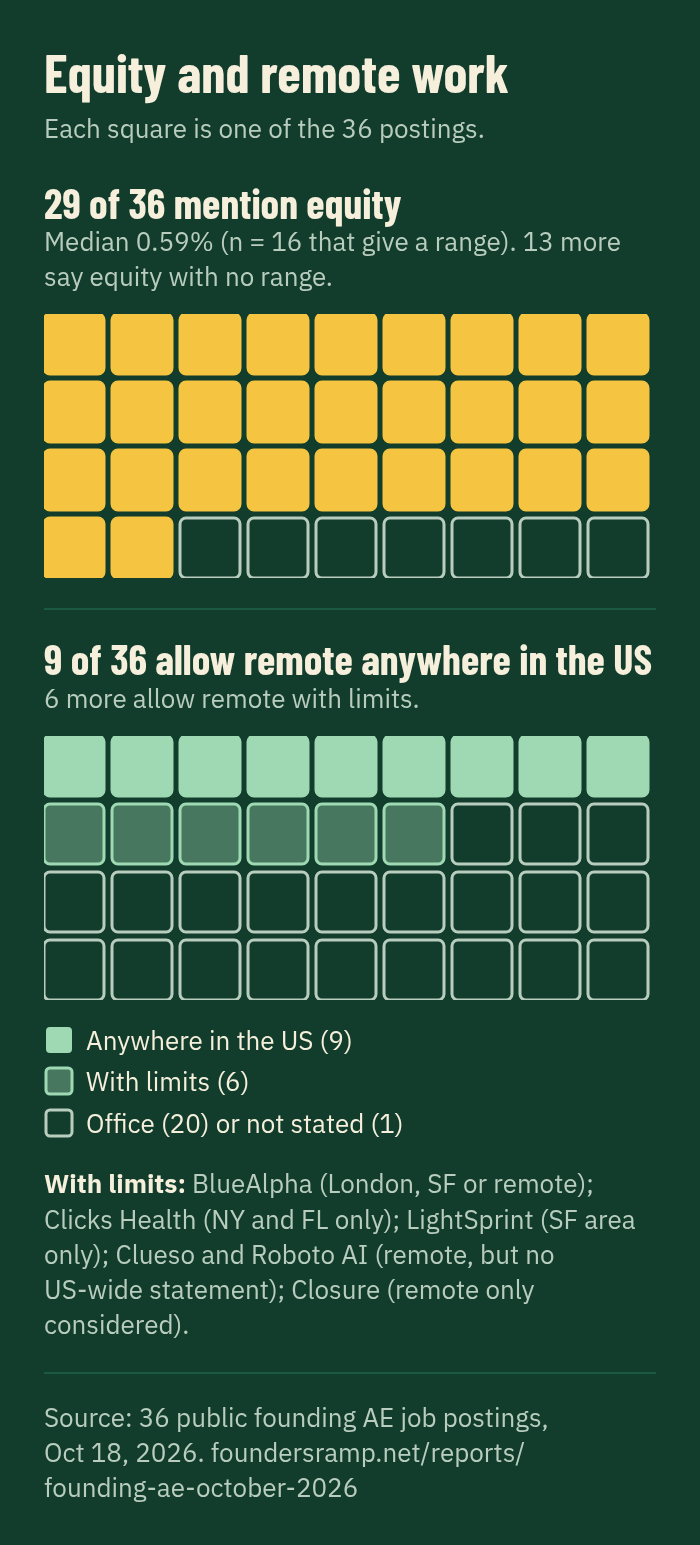
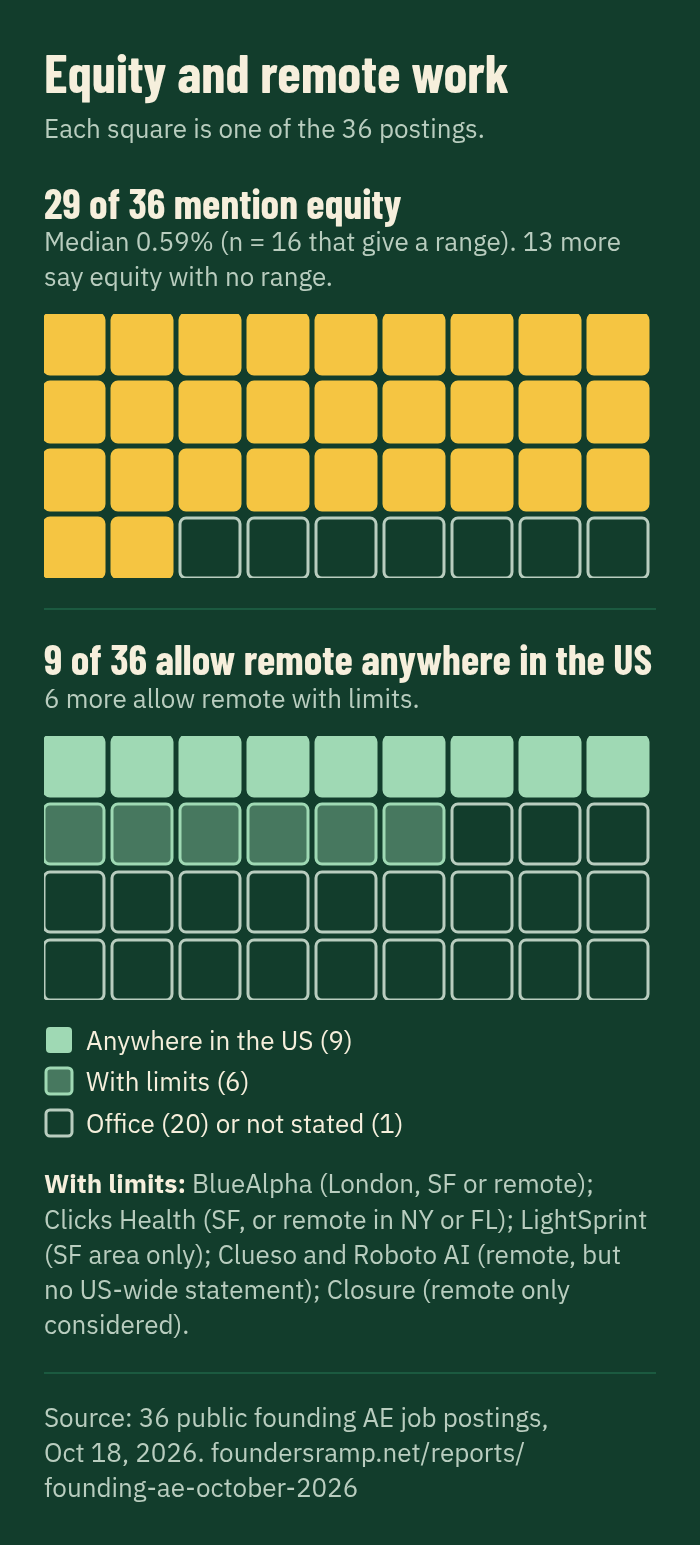
AE pay report r3: chart 2 Clicks Health remote wording (San Francisco, or remote in New York or Florida) + matching PNGs (DO NOT MERGE until Justin says Ship)

Changed region(s): [[0.06, 0.7767, 0.93, 0.8388]]

diff --git a/reports/founding-ae-october-2026/index.html b/reports/founding-ae-october-2026/index.html
@@ -100,7 +100,7 @@
 <h2>Where the job is</h2>
 <p>9 of the 36 postings say the hire can work remotely anywhere in the US. 6 more allow some remote work with limits, such as one city or region, or say remote will be considered. 20 ask the hire to work from an office, full time or part of the week, and 1 does not say.</p>
 <figure class="stage">
-  <a href="/assets/reports/founding-ae-october-2026/chart2-equity-remote.png"><picture><source media="(max-width: 600px)" srcset="/assets/reports/founding-ae-october-2026/chart2-equity-remote-mobile.png" width="700" height="1545"><img src="/assets/reports/founding-ae-october-2026/chart2-equity-remote.png" alt="Two grids of 36 squares, one per posting. Equity: 29 of 36 postings mention equity; the 16 that give a range have a median of 0.59%, and 13 mention equity with no range. Remote: 9 of 36 allow remote work anywhere in the US. 6 more allow remote with limits, shown in a lighter tint: BlueAlpha (London, San Francisco or remote), Clicks Health (New York and Florida only), LightSprint (San Francisco area only), Clueso and Roboto AI (remote, but no US-wide statement) and Closure (remote only considered). 20 ask for office work and 1 does not say. Source: 36 public founding AE job postings, Oct 18, 2026." width="1600" height="880" loading="lazy" decoding="async"></picture></a>
+  <a href="/assets/reports/founding-ae-october-2026/chart2-equity-remote.png"><picture><source media="(max-width: 600px)" srcset="/assets/reports/founding-ae-october-2026/chart2-equity-remote-mobile.png" width="700" height="1545"><img src="/assets/reports/founding-ae-october-2026/chart2-equity-remote.png" alt="Two grids of 36 squares, one per posting. Equity: 29 of 36 postings mention equity; the 16 that give a range have a median of 0.59%, and 13 mention equity with no range. Remote: 9 of 36 allow remote work anywhere in the US. 6 more allow remote with limits, shown in a lighter tint: BlueAlpha (London, San Francisco or remote), Clicks Health (San Francisco, or remote in New York or Florida), LightSprint (San Francisco area only), Clueso and Roboto AI (remote, but no US-wide statement) and Closure (remote only considered). 20 ask for office work and 1 does not say. Source: 36 public founding AE job postings, Oct 18, 2026." width="1600" height="880" loading="lazy" decoding="async"></picture></a>
 </figure>
 <h2>What else the postings say</h2>
 <p>33 of 36 state pay in some form. 3 state no pay at all. 7 state a deal size or a sales target, too few to group pay by deal size.</p>
